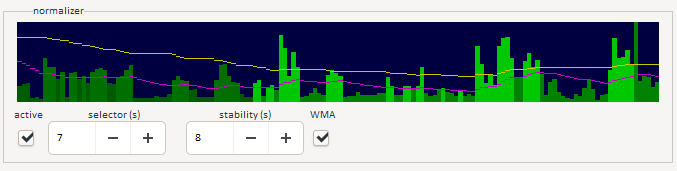
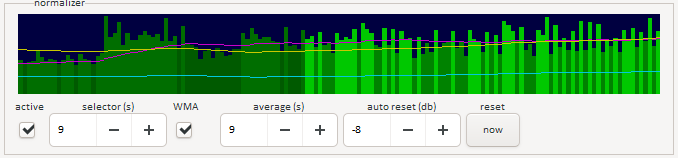
auto reset. WMA only for selector.

diff --git a/README.md b/README.md
@@ -18,20 +18,8 @@ Use at your own risk.
 - Run the executable that you find under releases, or compile the source code yourself. (see below)
 
 # Changelog
-v0.7.2
- - Fixed curve correction. Renamed it to volume adjustment.
- - Fixed high cpu load on idle
- - Added WMA (weighted moving average) for more responsive averages. Helps with movies.
-
-v0.7.1
- - Fixed limiter overshooting when using attack.
-
-V0.7
- - Various fixes and improvements
- - Limiter tracks normalizer downregulation. This prevents over attenuation when the normalizer reduces volume faster then the limiter releases.
- - Increased range to -50dB
- - Presets
- - Limiter attack time
+v0.8.0
+ - Added auto reset to respond faster to quiet parts.
 
 
 # User manual
@@ -73,12 +61,12 @@ Displays input signal over time. There are 5 bars per second.
 - yellow line: The average of the bright green bars, this is the loudness of what is playing.
 
 #### Settings
- - selector: Lenght the purple average.  
+ - selector: Length of the purple average.  
    Increase this to ignore quiet parts.
- - stability: How many green bars to use to compute the average loudness.  
+ - WMA: Makes the selector respond faster to recent changes. (Weighted moving average)
+ - average: How many green bars to use to compute the average loudness.  
    Decrease this to converge more quickly to a new level.
- - WMA: faster response of the moving averages.
-
+ - auto reset: If the selector falls this many dB below then the average will be reset.  
 
 ### Limiter
 ![controls](doc/limiter.png)
